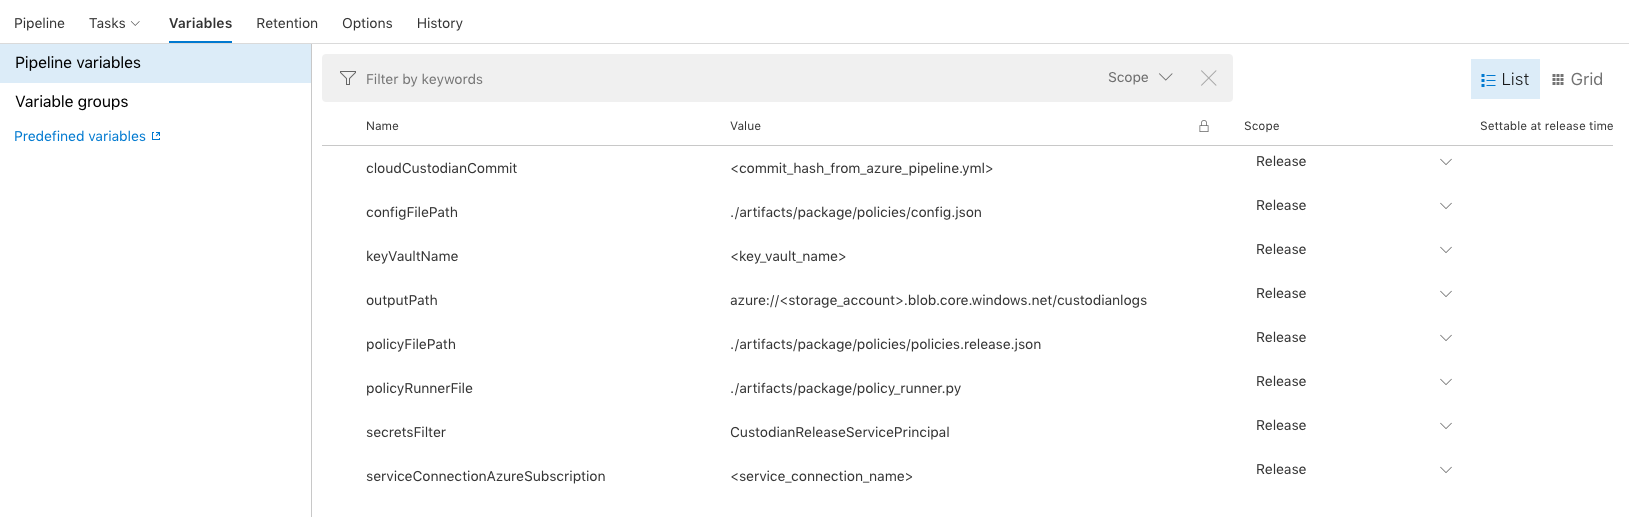
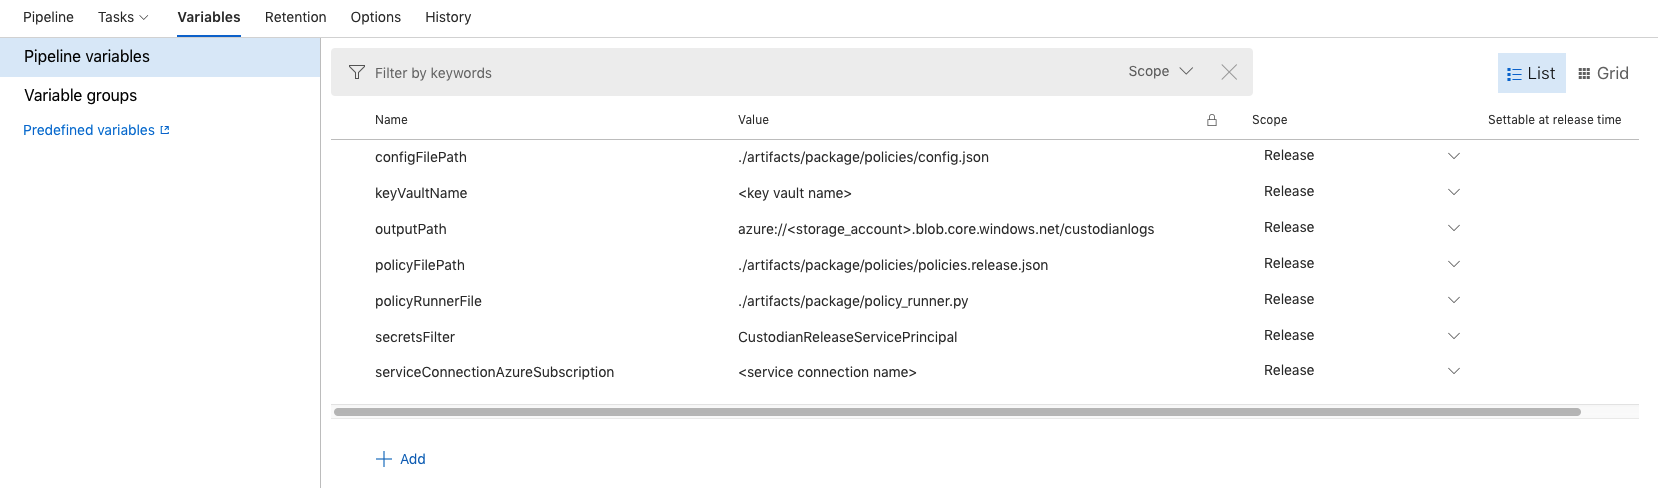
Create c7n and c7n_azure packages and publish as artifacts (#47)
* Create c7n and c7n_azure packages and publish as artifacts for the release to use

* Use temp directory on build agent to clone custodian and create py packages

* Addressing PR feedback

diff --git a/docs/release.md b/docs/release.md
@@ -13,7 +13,6 @@
 3. Add the following release variables, which the release tasks will reference. This will contain information such as file paths, Key Vault names, service connection names, and other information we will consume during the release. Use the same `service connection name` previously setup during the build.
 
     ```
-    cloudCustodianCommit : <commit hash from azure-pipelines.yml>
     configFilePath : ./artifacts/package/policies/config.json
     keyVaultName : <key vault name>
     outputPath : azure://<storage_account>.blob.core.windows.net/custodianlogs
@@ -49,15 +48,12 @@
 
     ![Install Tools](../docs/images/install-tools.png)
 
-9. Install Cloud Custodian by using the same git commit hash as listed in the `azure-pipelines.yml` file. The commit hash is to ensure we're testing with the same version of Cloud Custodian as the build.
+9. Install Cloud Custodian by using the python package artifacts published during the build. This will ensure we're always using the same version of Cloud Custodian as the build.
 
     ```
-    git clone https://github.com/capitalone/cloud-custodian -n &&
-    cd cloud-custodian &&
-    git checkout $(cloudCustodianCommit) &&
-    cd .. &&
-    pip install ./cloud-custodian &&
-    pip install ./cloud-custodian/tools/c7n_azure
+    pip install ./artifacts/package/c7n-dist/c7n.tar.gz
+    pip install ./artifacts/package/c7n-dist/c7n_azure.tar.gz
+    custodian version
     ```
 
     ![Install Cloud Custodian](../docs/images/install-cloud-custodian.png)
